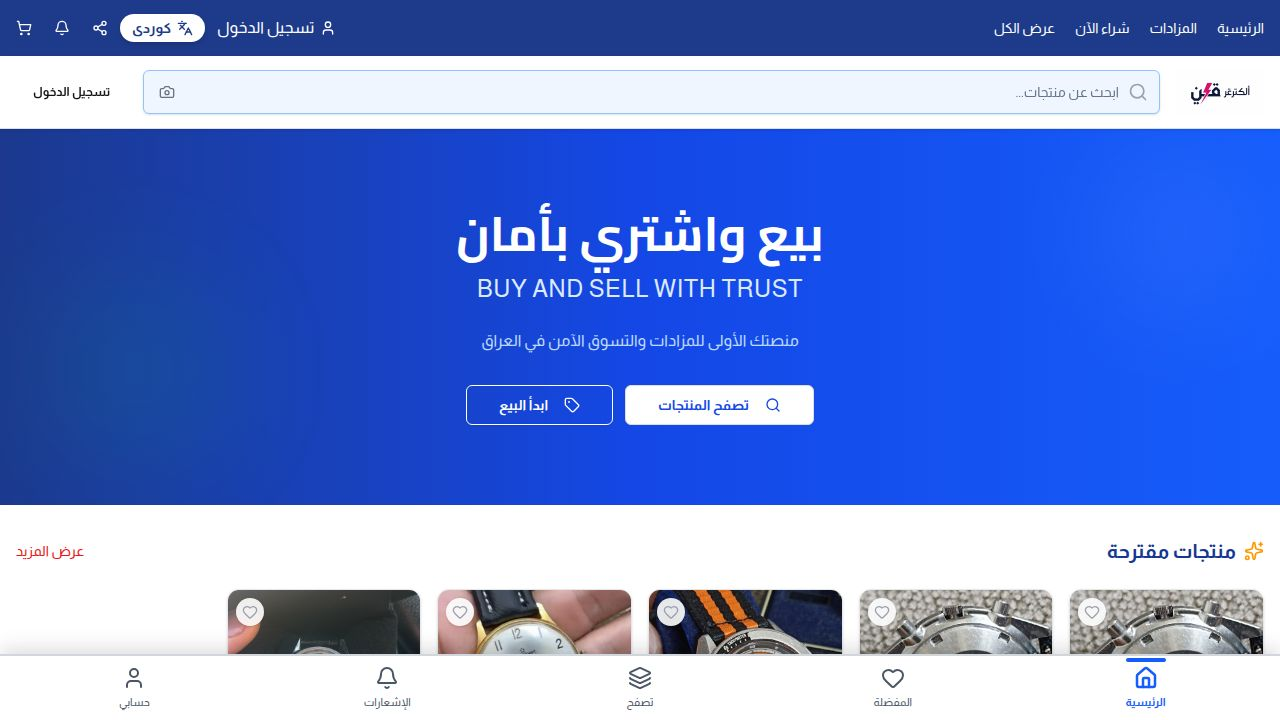
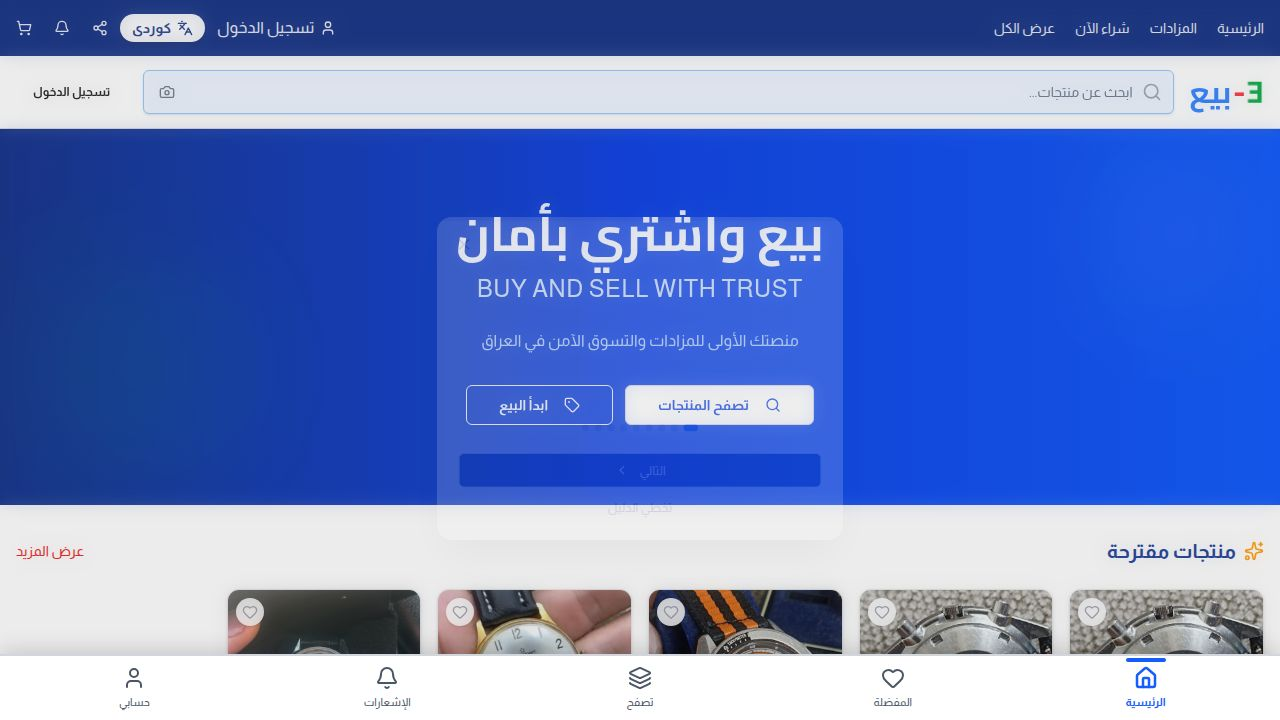
Restored to 'b30128d6c3178d05a746d289ccb390778ee51a03'
Replit-Restored-To: b30128d6c3178d05a746d289ccb390778ee51a03

diff --git a/client/src/components/logo.tsx b/client/src/components/logo.tsx
@@ -1,22 +1,109 @@
+import { useState, useEffect, useCallback, useRef } from "react";
+
 interface LogoProps {
   className?: string;
-  size?: "sm" | "md" | "lg";
 }
 
-export function Logo({ className = "", size = "md" }: LogoProps) {
-  const sizeClasses = {
-    sm: "h-8",
-    md: "h-10 md:h-12",
-    lg: "h-14 md:h-16"
-  };
+const IDLE_TIMEOUT = 45000;
+
+export function Logo({ className = "" }: LogoProps) {
+  const [isAnimating, setIsAnimating] = useState(false);
+  const idleTimerRef = useRef<NodeJS.Timeout | null>(null);
+  const hasPlayedInitial = useRef(false);
+
+  const triggerAnimation = useCallback(() => {
+    setIsAnimating(true);
+    setTimeout(() => setIsAnimating(false), 1000);
+  }, []);
+
+  const resetIdleTimer = useCallback(() => {
+    if (idleTimerRef.current) {
+      clearTimeout(idleTimerRef.current);
+    }
+    idleTimerRef.current = setTimeout(() => {
+      triggerAnimation();
+      resetIdleTimer();
+    }, IDLE_TIMEOUT + Math.random() * 15000);
+  }, [triggerAnimation]);
+
+  useEffect(() => {
+    if (!hasPlayedInitial.current) {
+      const initialDelay = setTimeout(() => {
+        triggerAnimation();
+        hasPlayedInitial.current = true;
+        resetIdleTimer();
+      }, 800);
+      return () => clearTimeout(initialDelay);
+    }
+  }, [triggerAnimation, resetIdleTimer]);
+
+  useEffect(() => {
+    const activityEvents = ['mousedown', 'mousemove', 'keydown', 'scroll', 'touchstart', 'click'];
+    
+    const handleActivity = () => {
+      if (hasPlayedInitial.current) {
+        resetIdleTimer();
+      }
+    };
+
+    activityEvents.forEach(event => {
+      window.addEventListener(event, handleActivity, { passive: true });
+    });
+
+    return () => {
+      activityEvents.forEach(event => {
+        window.removeEventListener(event, handleActivity);
+      });
+      if (idleTimerRef.current) {
+        clearTimeout(idleTimerRef.current);
+      }
+    };
+  }, [resetIdleTimer]);
 
   return (
     <div className={`inline-flex items-center ${className}`}>
-      <img 
-        src="/logo.png" 
-        alt="E-بيع" 
-        className={`${sizeClasses[size]} w-auto object-contain`}
-      />
+      <style>{`
+        @keyframes dropBounce {
+          0% {
+            transform: scaleX(-1) translateY(-80px);
+            opacity: 0;
+          }
+          20% {
+            opacity: 1;
+          }
+          50% {
+            transform: scaleX(-1) translateY(0);
+          }
+          65% {
+            transform: scaleX(-1) translateY(-12px);
+          }
+          80% {
+            transform: scaleX(-1) translateY(0);
+          }
+          90% {
+            transform: scaleX(-1) translateY(-4px);
+          }
+          100% {
+            transform: scaleX(-1) translateY(0);
+          }
+        }
+        .e-drop {
+          animation: dropBounce 0.8s ease-out forwards;
+        }
+        .e-normal {
+          transform: scaleX(-1);
+        }
+      `}</style>
+      
+      <span className="text-2xl md:text-3xl font-bold flex items-center" style={{ fontFamily: "Cairo, sans-serif" }}>
+        <span 
+          className={`text-green-600 ${isAnimating ? 'e-drop' : 'e-normal'}`}
+        >
+          E
+        </span>
+        <span className="text-red-500 mx-0.5">-</span>
+        <span className="text-blue-500">بيع</span>
+      </span>
     </div>
   );
 }
